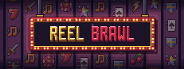
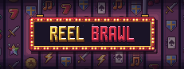
Capsule: the reels at the frame's left and right edges keep their symbols (they were left empty and read as missing)
Claude-Session: https://claude.ai/code/session_013JAoFjrCifqJMgxmdrHS8s

diff --git a/art/capsule/v3/steam.js b/art/capsule/v3/steam.js
@@ -155,8 +155,9 @@ function reelWall(W, H, o) {
       let id = null;
       for (let tries = 0; tries < 40 && (id === null || id === last || beside.includes(id)); tries++) id = POOL[Math.floor(rnd() * POOL.length)];
       last = id;
-      // an empty spot where the sign's end would cut a symbol in half, and in a column the frame's edge cuts
-      const cut = (side > 0 && side < 13 && hidden(y) > 3) || x0 + 3 < 0 || x0 + 19 > W;
+      // an empty spot where the sign's end would cut a symbol in half. (A column the frame's edge cuts keeps its
+      // symbols: empty strips at the far left and right read as missing symbols. User, 2026-11-11.)
+      const cut = side > 0 && side < 13 && hidden(y) > 3;
       mine.push([y, cut ? null : id]);
     }
     cols.push({ x0, mine, smear: (o.smear ?? []).includes(c), hidden });
